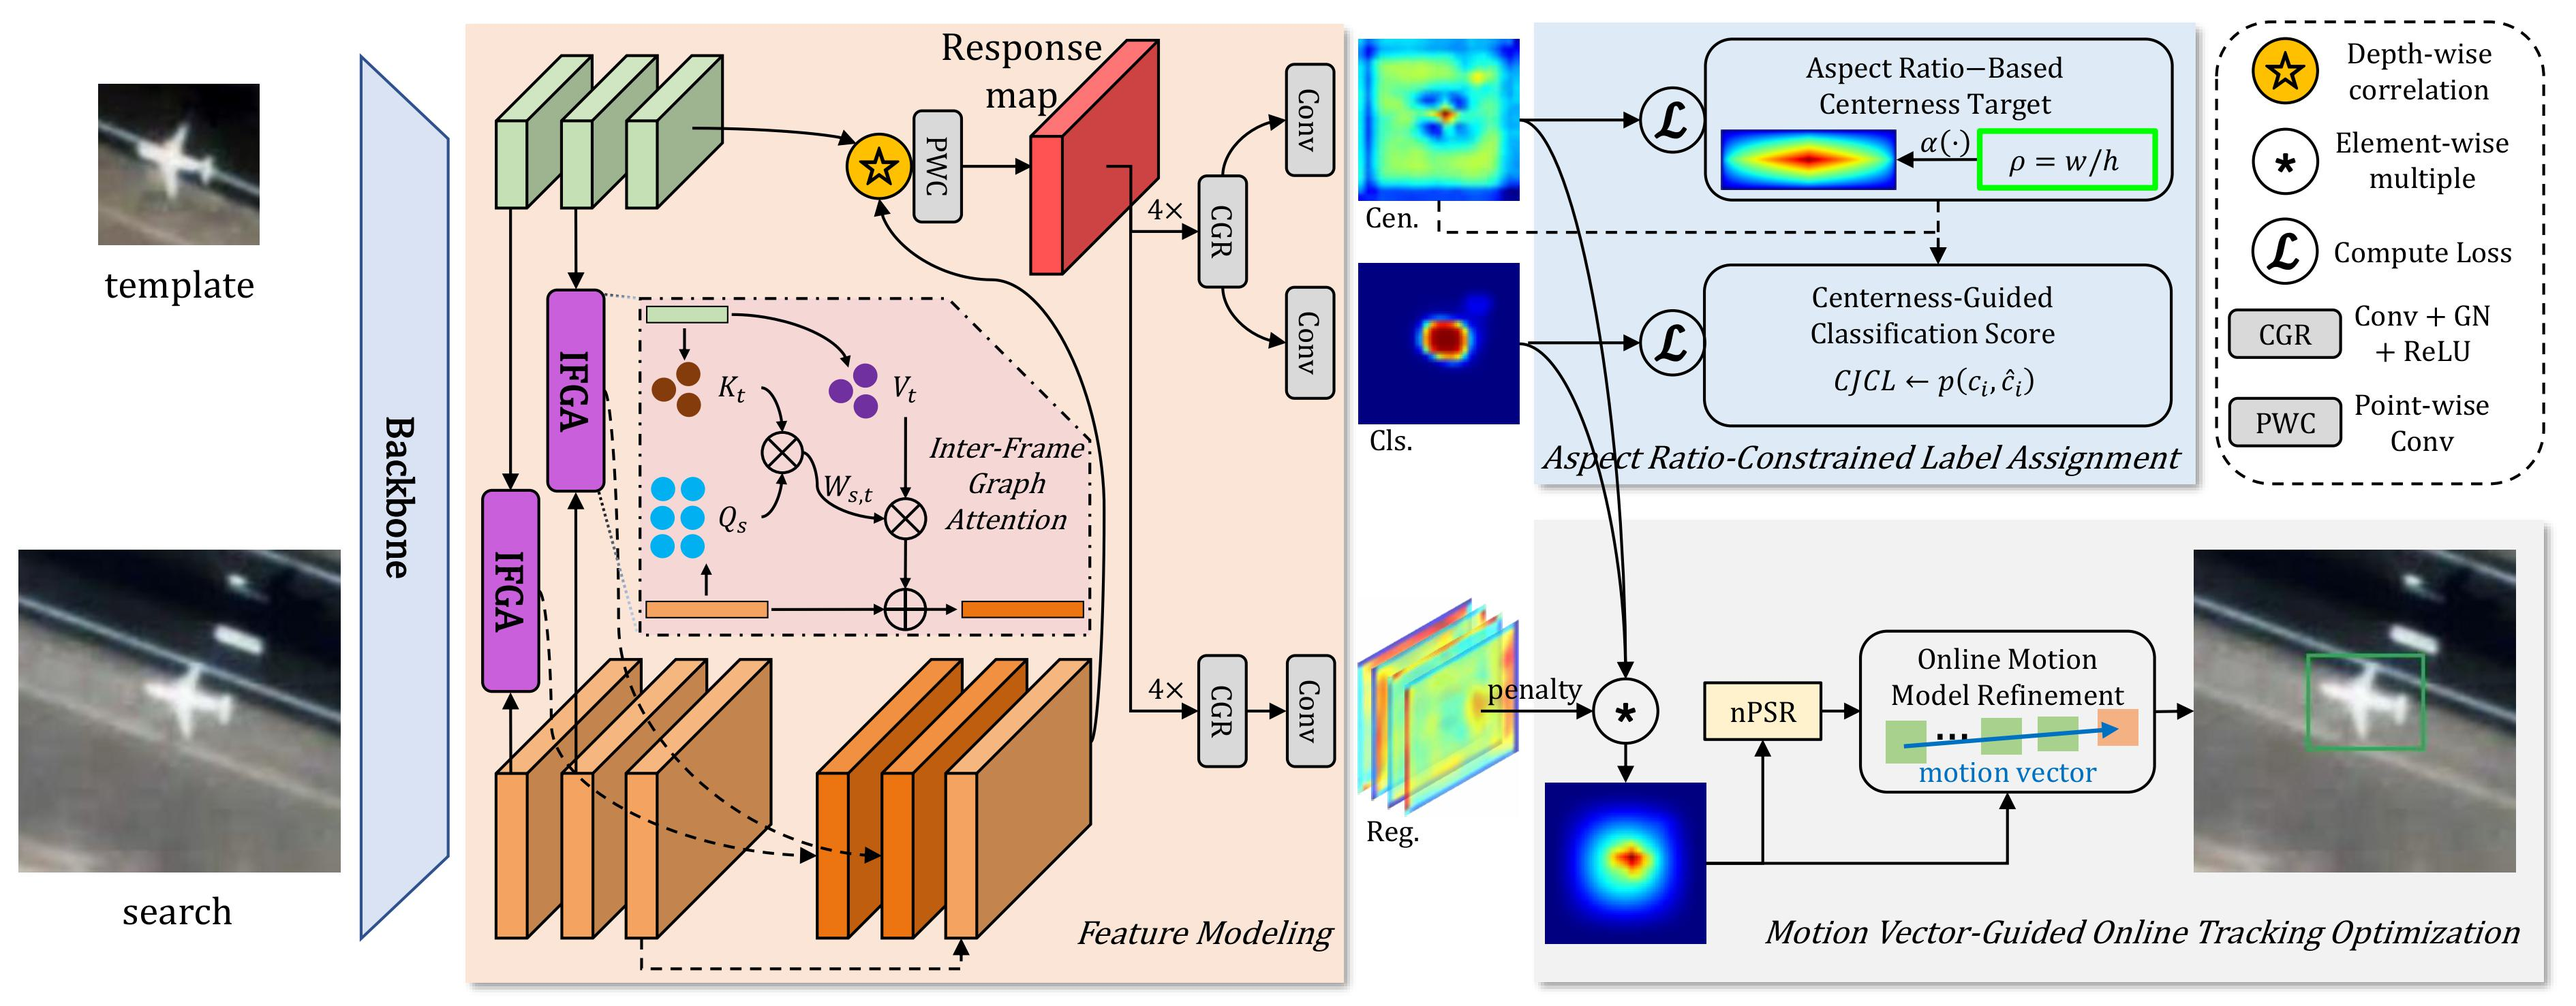
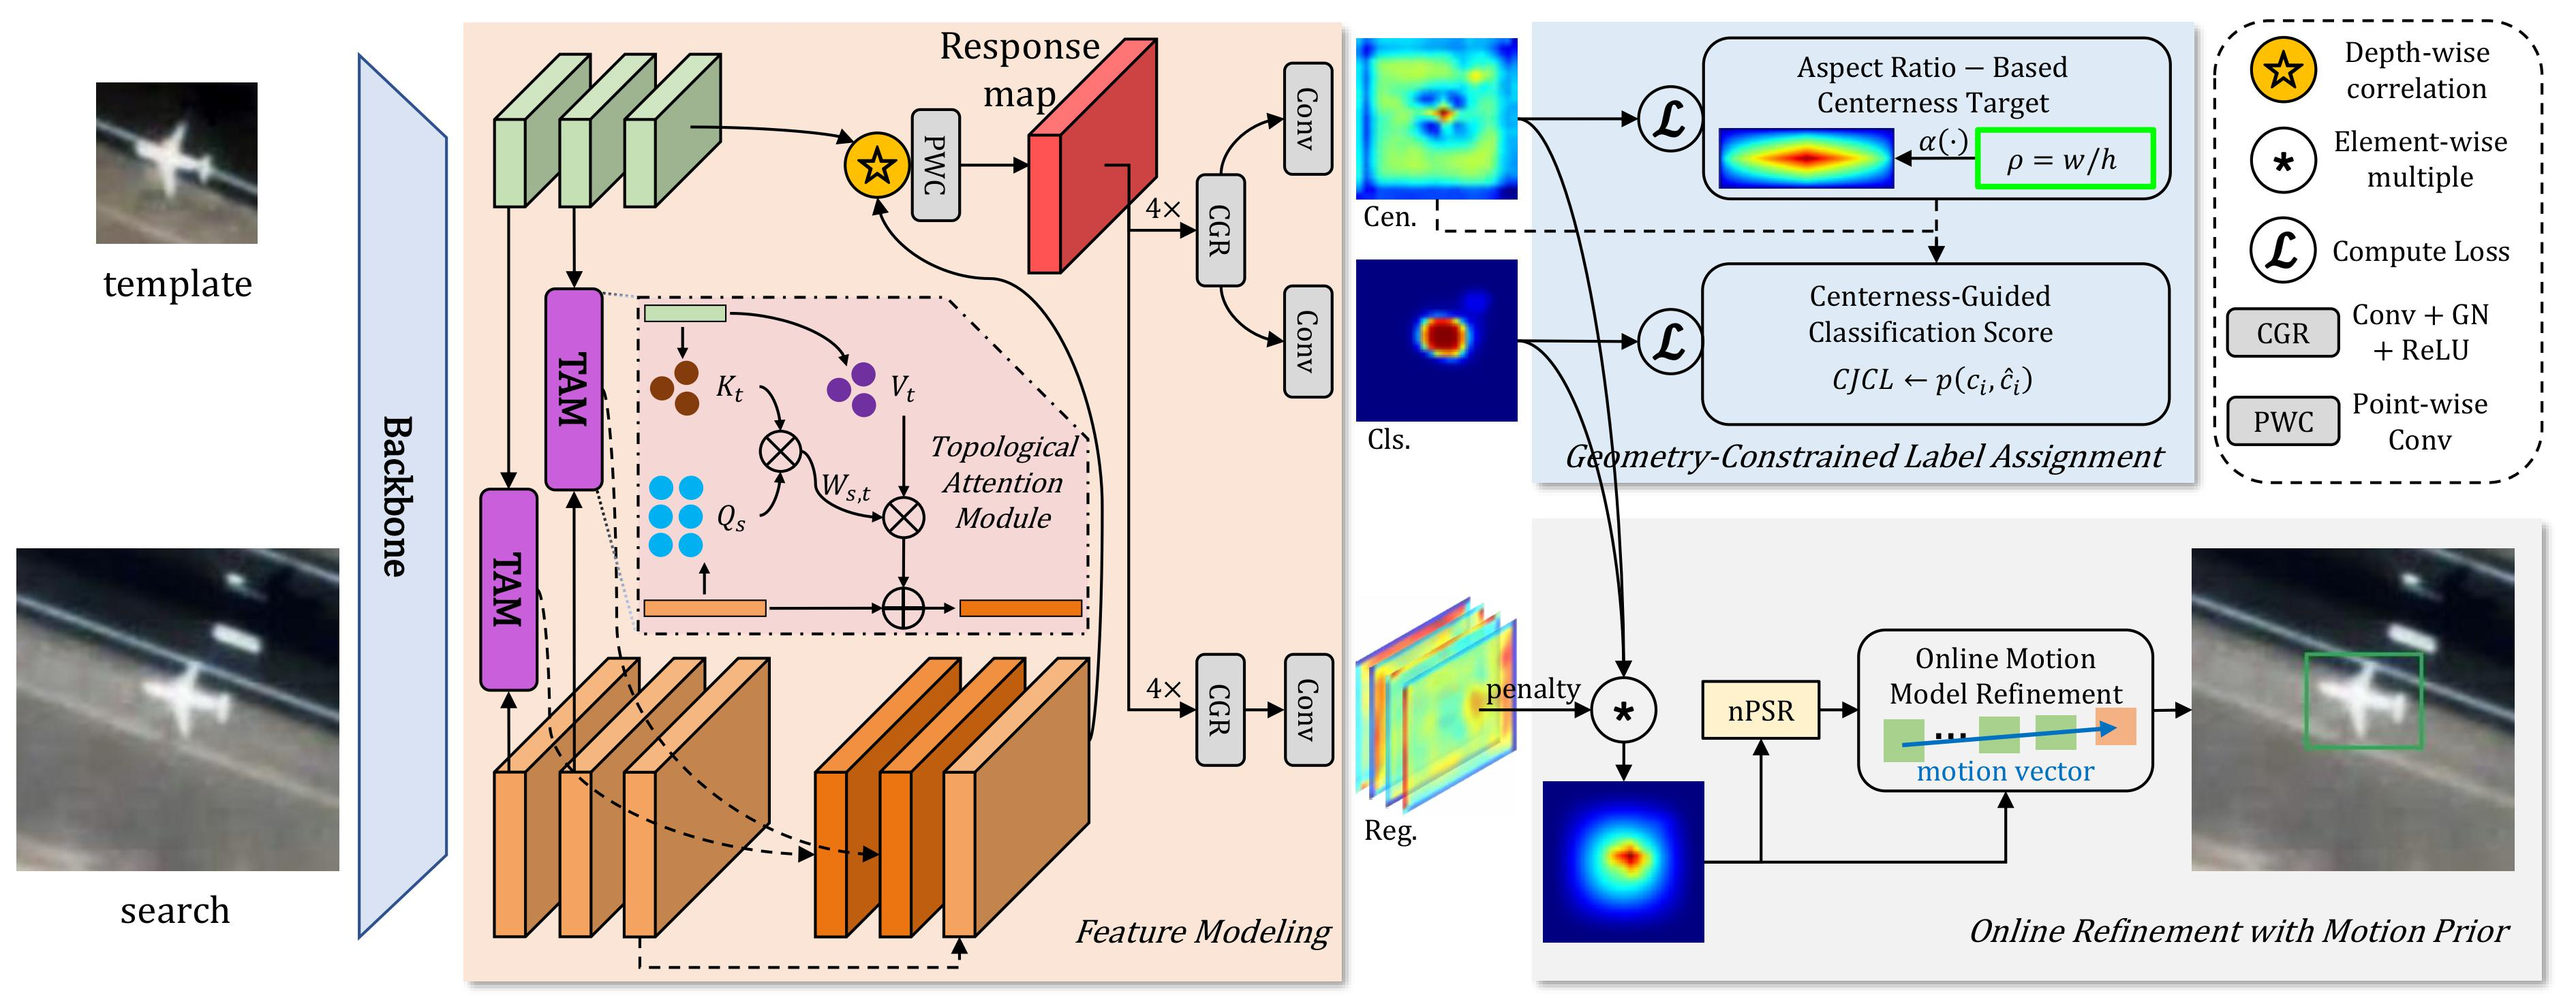
update README.md

diff --git a/README.md b/README.md
@@ -1,30 +1,13 @@
-# SiamGM: Siamese Geometry-Aware and Motion-Guided Network for Real-Time Satellite Video Object Tracking
-
-> SiamGM: Siamese Geometry-Aware and Motion-Guided Network for Real-Time Satellite Video Object Tracking
->
-> [https://arxiv.org/abs/2603.07564](https://arxiv.org/abs/2603.07564)
+# Geometric-Topological Perception and Motion Prior for Real-Time Satellite Video Object Tracking
 
 Codes comming soon!
 
 ## Abstract
 
-Single object tracking in satellite videos is inherently challenged by small target, blurred background, large aspect ratio changes, and frequent visual occlusions. These constraints often cause appearance-based trackers to accumulate errors and lose targets irreversibly. To systematically mitigate both spatial ambiguities and temporal information loss, we propose SiamGM, a novel geometry-aware and motion-guided Siamese network. From a spatial perspective, we introduce an Inter-Frame Graph Attention (IFGA) module, closely integrated with an Aspect Ratio-Constrained Label Assignment (LA) method, establishing fine-grained topological correspondences and explicitly preventing surrounding background noise. From a temporal perspective, we introduce the Motion Vector-Guided Online Tracking Optimization method. By adopting the Normalized Peak-to-Sidelobe Ratio (nPSR) as a dynamic confidence indicator, we propose an Online Motion Model Refinement (OMMR) strategy to utilize historical trajectory information. Evaluations on two challenging SatSOT and SV248S benchmarks confirm that SiamGM outperforms most state-of-the-art trackers in both precision and success metrics. Notably, the proposed components of SiamGM introduce virtually no computational overhead, enabling real-time tracking at 130 frames per second (FPS). Codes and tracking results are available at [https://github.com/wenzx18/SiamGM](https://github.com/wenzx18/SiamGM).
+Satellite video object tracking (SVOT) remains fundamentally challenging due to texture scarcity, arbitrary rotation, aspect ratio changes, and severe occlusions. While recent state-of-the-art trackers excel in general scenarios, their reliance on rich appearance details or rigid spatial matching mechanisms leads to significant performance degradation in the satellite domain. To bridge this gap, we propose SiamGM, a real-time spatial-temporal unified tracking framework tailored for satellite videos. Instead of conventionally stacking modules, we synergize geometric-topological perception with temporal-kinematic prior, addressing the core limitations of SVOT. Spatially, we closely couple a Topological Attention Module (TAM) with a Geometry-Constrained Label Assignment (GCLA) method during the training phase. This joint paradigm establishes fine-grained structural correspondences and explicitly suppresses surrounding background noise. Temporally, rather than passively relying on visual cues, we propose an Online Motion Model Refinement (OMMR) strategy during the tracking phase. By adopting the Normalized Peak-to-Sidelobe Ratio (nPSR) as a dynamic confidence indicator, we adaptively leverage historical motion information for robust track recovery. Evaluations on two challenging SatSOT and SV248S benchmarks confirm that SiamGM outperforms not only recent Siamese-based satellite trackers but also state-of-the-art Transformer trackers in both precision and success metrics. Notably, this highly unified architecture introduces only minor computational overhead, enabling real-time tracking at 130 frames per second (FPS). Codes and tracking results are available at [https://github.com/wenzx18/SiamGM](https://github.com/wenzx18/SiamGM).
 
 ![Overview of the proposed SiamGM](demo/overview.jpg)
 
 ## Results
 
 Results can be downloaded from: [Google Drive](https://drive.google.com/drive/folders/1wA-kQ_2gJe4dtK84B_VLtATMBdB7k74U?usp=drive_link)
-
-## Citation
-
-If you find this repository/work helpful in your research, welcome to cite our paper:
-
-```bibtex
-@article{wen2026siamgm,
-  title={{SiamGM: Siamese Geometry-Aware and Motion-Guided Network for Real-Time Satellite Video Object Tracking}},
-  author={Wen, Zixiao and Yang, Zhen and Li, Jiawei and Xiang, Xiantai and Zhou, Guangyao and Hu, Yuxin and Liu, Yuhan},
-  journal={arXiv preprint arXiv:2603.07564},
-  year={2026}
-}
-```
